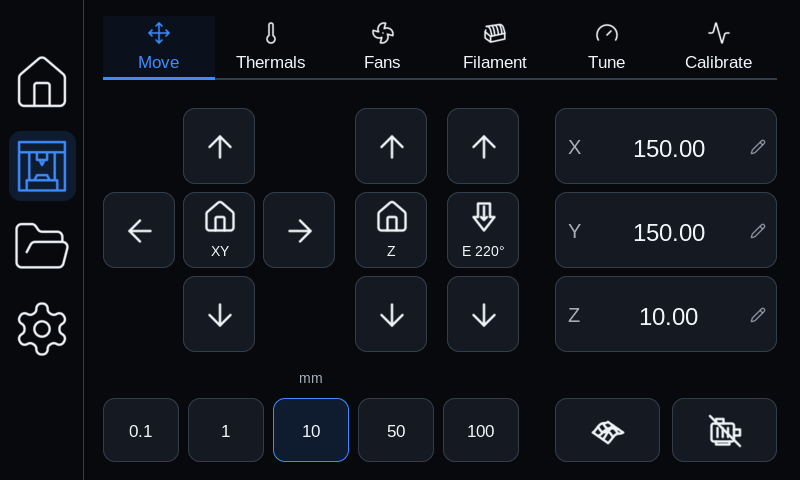
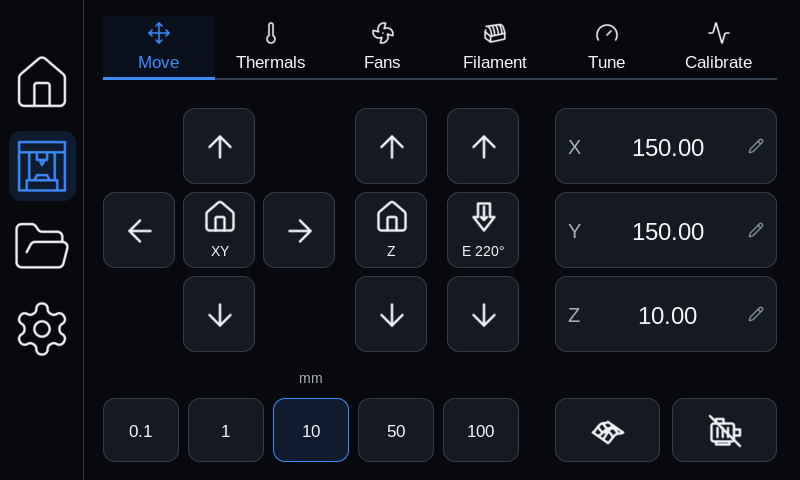
Center live coordinates and show destination underneath

diff --git a/src/views.c b/src/views.c
@@ -419,15 +419,26 @@ void views_refresh(void) {
             cJSON *target = cJSON_GetArrayItem(J("motion.target"), i);
             bool moving = cJSON_IsTrue(cJSON_GetArrayItem(J("motion.moving"), i)) &&
                           cJSON_IsNumber(p) && cJSON_IsNumber(target);
-            const lv_font_t *font = moving ? &font_ui_17 : &font_ui_24;
-            if (lv_obj_get_style_text_font(app.positions[i], 0) != font)
-                lv_obj_set_style_text_font(app.positions[i], font, 0);
-            if (moving)
-                snprintf(value, sizeof(value), "%.2f → %.2f", p->valuedouble, target->valuedouble);
-            else
-                snprintf(value, sizeof(value), "%.2f", cJSON_IsNumber(p) ? p->valuedouble : 0);
-            label_update(app.positions[i],
-                         strchr(S("status.toolhead.homed_axes"), "xyz"[i]) ? value : "—");
+            bool homed = strchr(S("status.toolhead.homed_axes"), "xyz"[i]) != NULL;
+            moving = moving && homed;
+            snprintf(value, sizeof(value), "%.2f", cJSON_IsNumber(p) ? p->valuedouble : 0);
+            label_update(app.positions[i], homed ? value : "—");
+            lv_obj_align(app.positions[i], LV_ALIGN_CENTER, 2, moving ? -12 : 0);
+            if (moving) {
+                snprintf(value, sizeof(value), "%.2f", target->valuedouble);
+                label_update(app.position_targets[i], value);
+                lv_point_t size;
+                lv_txt_get_size(&size, value, &font_ui_17, 0, 0, 146, LV_TEXT_FLAG_NONE);
+                int x = 113 - (size.x + 22) / 2;
+                lv_obj_set_pos(app.position_arrows[i], x, 44 + (size.y - 16) / 2);
+                lv_obj_set_pos(app.position_targets[i], x + 22, 44);
+                lv_obj_set_width(app.position_targets[i], size.x);
+                lv_obj_clear_flag(app.position_arrows[i], LV_OBJ_FLAG_HIDDEN);
+                lv_obj_clear_flag(app.position_targets[i], LV_OBJ_FLAG_HIDDEN);
+            } else {
+                lv_obj_add_flag(app.position_arrows[i], LV_OBJ_FLAG_HIDDEN);
+                lv_obj_add_flag(app.position_targets[i], LV_OBJ_FLAG_HIDDEN);
+            }
         }
     }
     if (app.status_label) {
@@ -551,10 +562,16 @@ static void move_view(void) {
         snprintf(action, sizeof(action), "position:%c", "XYZ"[i]);
         lv_obj_t *field = button(app.content, "", 452, 108 + i * 84, 222, 76,
                                  axis_homed("xyz"[i]) ? action : NULL, false);
-        text(field, axis, 12, 24, 24, &font_ui_20, true);
-        app.positions[i] = text(field, "—", 40, 23, 146, &font_ui_24, false);
+        lv_obj_t *axis_label = text(field, axis, 12, 0, 24, &font_ui_20, true);
+        lv_obj_align(axis_label, LV_ALIGN_LEFT_MID, 12, 0);
+        app.positions[i] = text(field, "—", 40, 0, 146, &font_ui_24, false);
         centered(app.positions[i]);
-        icon(field, "pencil", 194, 30, 16, colour("a4aebb"));
+        app.position_targets[i] = text(field, "", 40, 44, 146, &font_ui_17, true);
+        icon(field, "arrow-right", 40, 44, 16, colour("a4aebb"));
+        app.position_arrows[i] = lv_obj_get_child(field, -1);
+        icon(field, "pencil", 0, 0, 16, colour("a4aebb"));
+        lv_obj_t *edit = lv_obj_get_child(field, -1);
+        lv_obj_align(edit, LV_ALIGN_RIGHT_MID, -12, 0);
     }
     bool enabled = motors_locked();
     lv_obj_t *mesh = button(app.content, "", 452, 398, 105, 64,

diff --git a/src/ui.c b/src/ui.c
@@ -108,9 +108,9 @@ static ConnectionMode connection_state(void) {
     const char *state = S("status.webhooks.state");
     bool complete = app.connected && !strcmp(state, "ready") &&
                     cJSON_GetArraySize(J("settings")) > 0 && cJSON_GetArraySize(J("heaters")) > 0;
-    if (complete && ((!app.restart_waiting && app.ever_ready) ||
-                     !cJSON_IsObject(J("status.k2_motor_bus")) ||
-                     B("status.k2_motor_bus.motors_ready")))
+    if (complete &&
+        ((!app.restart_waiting && app.ever_ready) || !cJSON_IsObject(J("status.k2_motor_bus")) ||
+         B("status.k2_motor_bus.motors_ready")))
         return CONNECTION_READY;
     return app.ever_ready || !strcmp(state, "error") || !strcmp(state, "shutdown")
                ? CONNECTION_LOST
@@ -907,10 +907,12 @@ void ui_data(cJSON *data) {
     ConnectionMode previous_connection = ui_connection_mode();
     bool previous_link = app.service_link;
     bool view_changed = ui_view_changed(app.data, data);
-    bool policy_changed = !json_equal(J("availability"), json_update_value(app.data, data, "availability"));
-    bool activity_changed = !json_equal(J("operations"), json_update_value(app.data, data, "operations")) ||
-                            !json_equal(J("operation"), json_update_value(app.data, data, "operation")) ||
-                            !json_equal(J("filament_activity"), json_update_value(app.data, data, "filament_activity"));
+    bool policy_changed =
+        !json_equal(J("availability"), json_update_value(app.data, data, "availability"));
+    bool activity_changed =
+        !json_equal(J("operations"), json_update_value(app.data, data, "operations")) ||
+        !json_equal(J("operation"), json_update_value(app.data, data, "operation")) ||
+        !json_equal(J("filament_activity"), json_update_value(app.data, data, "filament_activity"));
     bool session_changed = strcmp(S("session"), jstr(data, "session", "")) != 0;
     char previous_home[1024];
     home_state(previous_home, sizeof(previous_home));
@@ -1315,6 +1317,8 @@ void ui_render(void) {
     memset(app.target, 0, sizeof(app.target));
     memset(app.temperature_arrow, 0, sizeof(app.temperature_arrow));
     memset(app.positions, 0, sizeof(app.positions));
+    memset(app.position_targets, 0, sizeof(app.position_targets));
+    memset(app.position_arrows, 0, sizeof(app.position_arrows));
     app.extrusion_temp = NULL;
     app.status_label = app.time_label = app.layer_label = app.progress = app.percent = NULL;
     lv_obj_clean(app.content);

diff --git a/tests/test_stream_updates.py b/tests/test_stream_updates.py
@@ -15,6 +15,16 @@ class StreamUpdates(unittest.TestCase):
     def pixels(self):
         return (self.path / 'screen.ppm').read_bytes()
 
+    def test_live_coordinates_return_to_centered_stationary_state(self):
+        self.render('move')
+        idle = self.pixels()
+        motion = {'current': [100, 150, 10], 'target': [300, 250, 10], 'moving': [True, True, False]}
+        self.render('move', [{'snapshot': self.patch({'motion': motion})}])
+        self.assertNotEqual(self.pixels(), idle)
+        self.render('move', [{'snapshot': self.patch({'motion': motion})},
+                             {'snapshot': self.patch({'motion': {}})}])
+        self.assertEqual(self.pixels(), idle)
+
     def test_partial_heater_update_matches_complete_state(self):
         changed = copy.deepcopy(self.data)
         changed['heaters'][0].update(current=187, target=210)

diff --git a/src/screen.h b/src/screen.h
@@ -28,8 +28,9 @@ LV_FONT_DECLARE(font_heading_28);
 typedef struct {
     cJSON *data;
     lv_obj_t *screen, *nav, *content, *overlay, *title, *body, *footer;
-    lv_obj_t *current[3], *target[3], *temperature_arrow[3], *positions[3], *extrusion_temp,
-        *status_label, *time_label, *layer_label, *progress, *percent;
+    lv_obj_t *current[3], *target[3], *temperature_arrow[3], *positions[3], *position_targets[3],
+        *position_arrows[3], *extrusion_temp, *status_label, *time_label, *layer_label, *progress,
+        *percent;
     char route[48], control_tab[24], settings_tab[24], history[80][48];
     int history_count;
     bool select_feeding_cfs;
